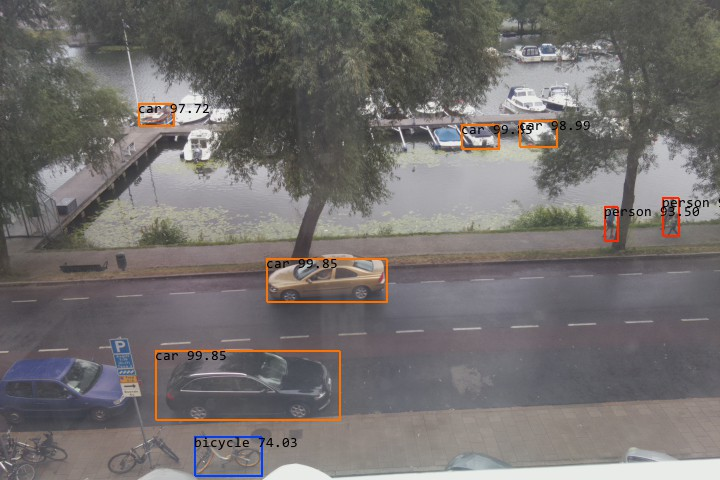
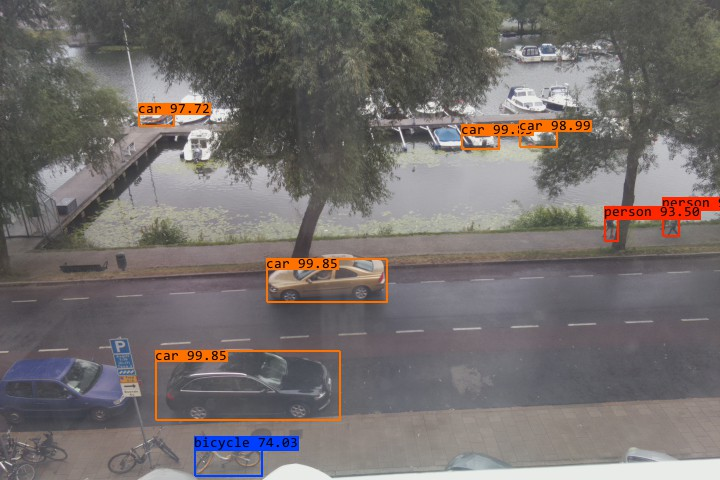
NW: small fixes

diff --git a/practice-projects/neighborhood-watch/production/server/nw_main_loop.py b/practice-projects/neighborhood-watch/production/server/nw_main_loop.py
@@ -173,12 +173,17 @@ def main():
             #post to slack
             if (entry_added):
                 #post_result_to_slack(new_image, result, slack_client)
+                found_persons = False
                 for item in result:
                     if (item["name"] == "person"):
                         if (item["count"] > current_nof_people):
                             person_counter += item["count"] - current_nof_people
                             post_number_of_people(person_counter, slack_client)
                         current_nof_people = item["count"]
+                        found_persons = True
+
+                if not found_persons:
+                    current_nof_people = 0
 
         profile_timer.end_scope()
 

diff --git a/practice-projects/neighborhood-watch/models/yolo-dnn/yolo_v3_tf_mystic123.py b/practice-projects/neighborhood-watch/models/yolo-dnn/yolo_v3_tf_mystic123.py
@@ -110,9 +110,10 @@ class YoloV3Mystic123(ObjectDetectionModel):
                 for i in range(thickness): #hacky way to draw thick rectangles
                     draw.rectangle((np.array(box) + i).tolist(), outline=colors[cls])
 
-                    
-                draw.text(box[:2], label, fill=(0, 0, 0), font=font)
-
+                text_origin = np.array(box[:2])
+                label_size = np.array(draw.textsize(label, font))
+                draw.rectangle([tuple(text_origin), tuple(text_origin + label_size)], fill=colors[cls])
+                draw.text(text_origin.tolist(), label, fill=(0, 0, 0), font=font)
 
                 """
                 label_size = draw.textsize(label, font)
